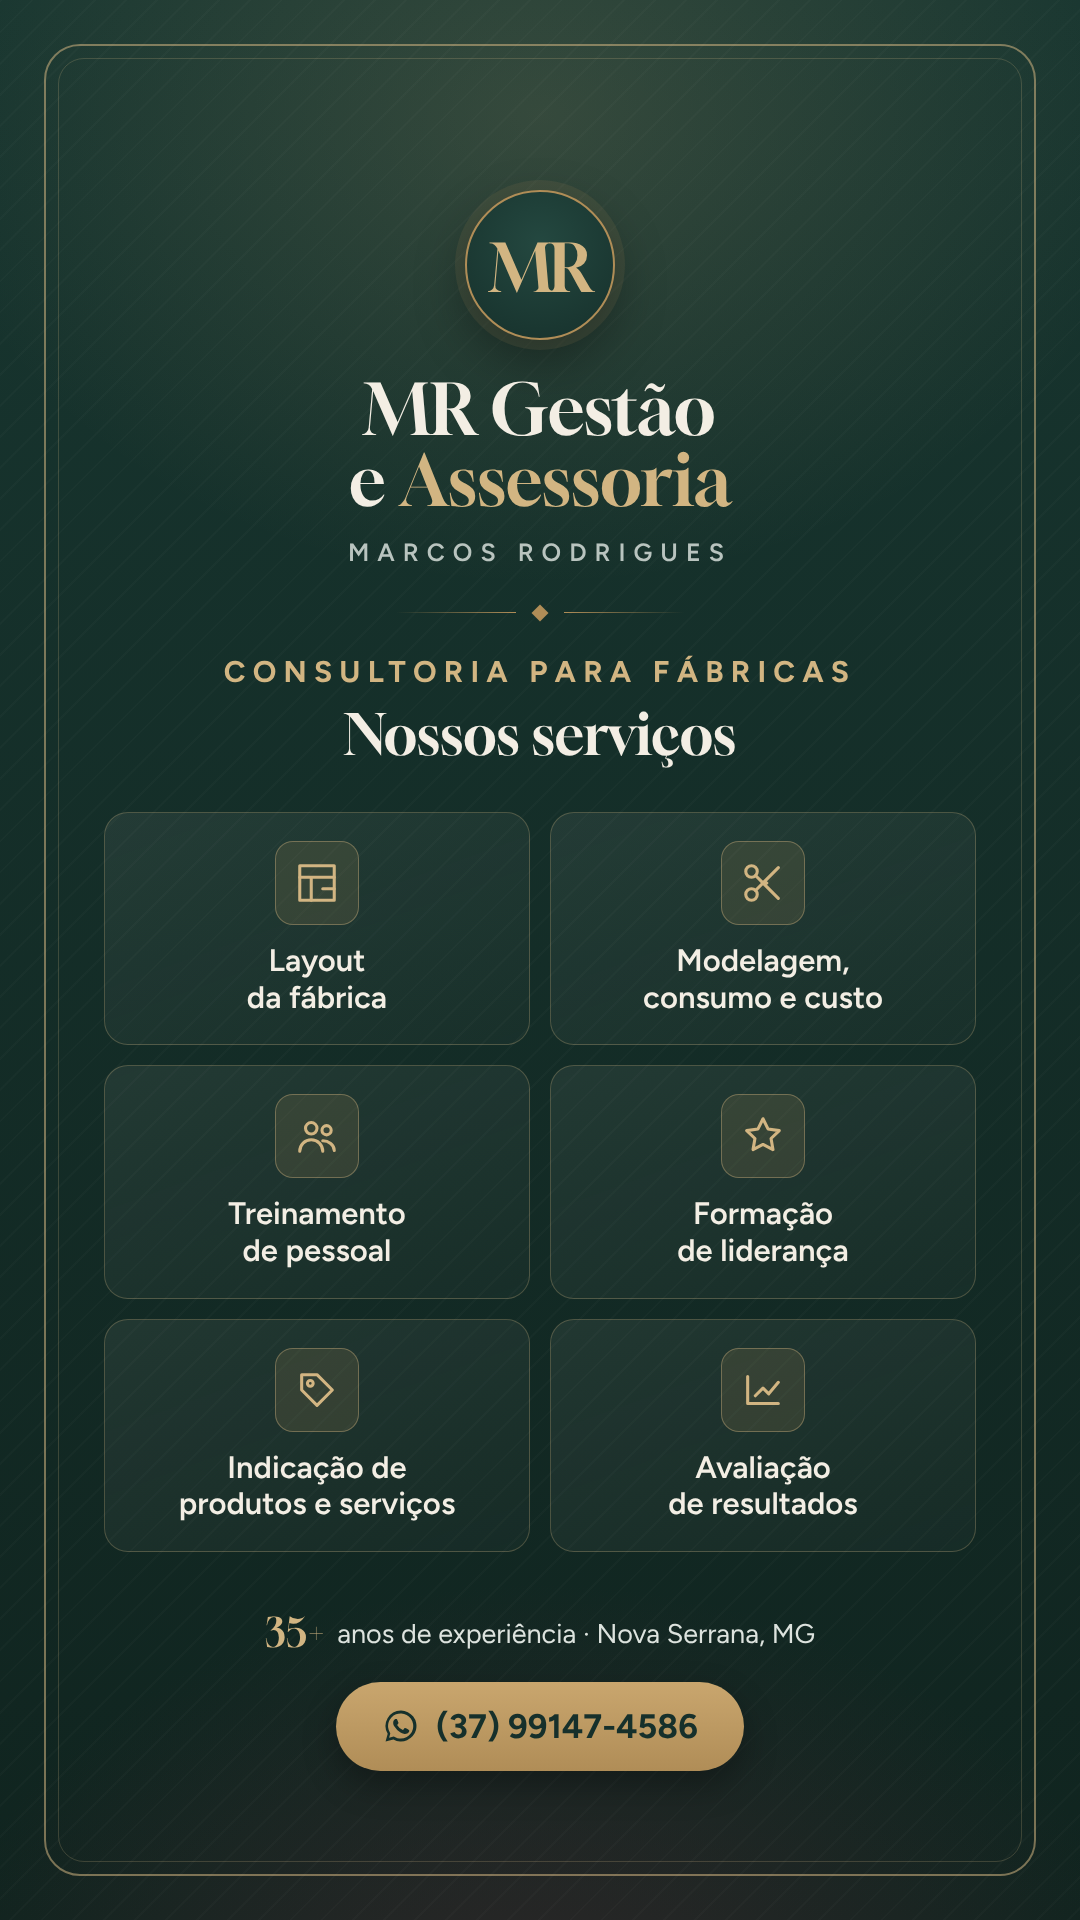
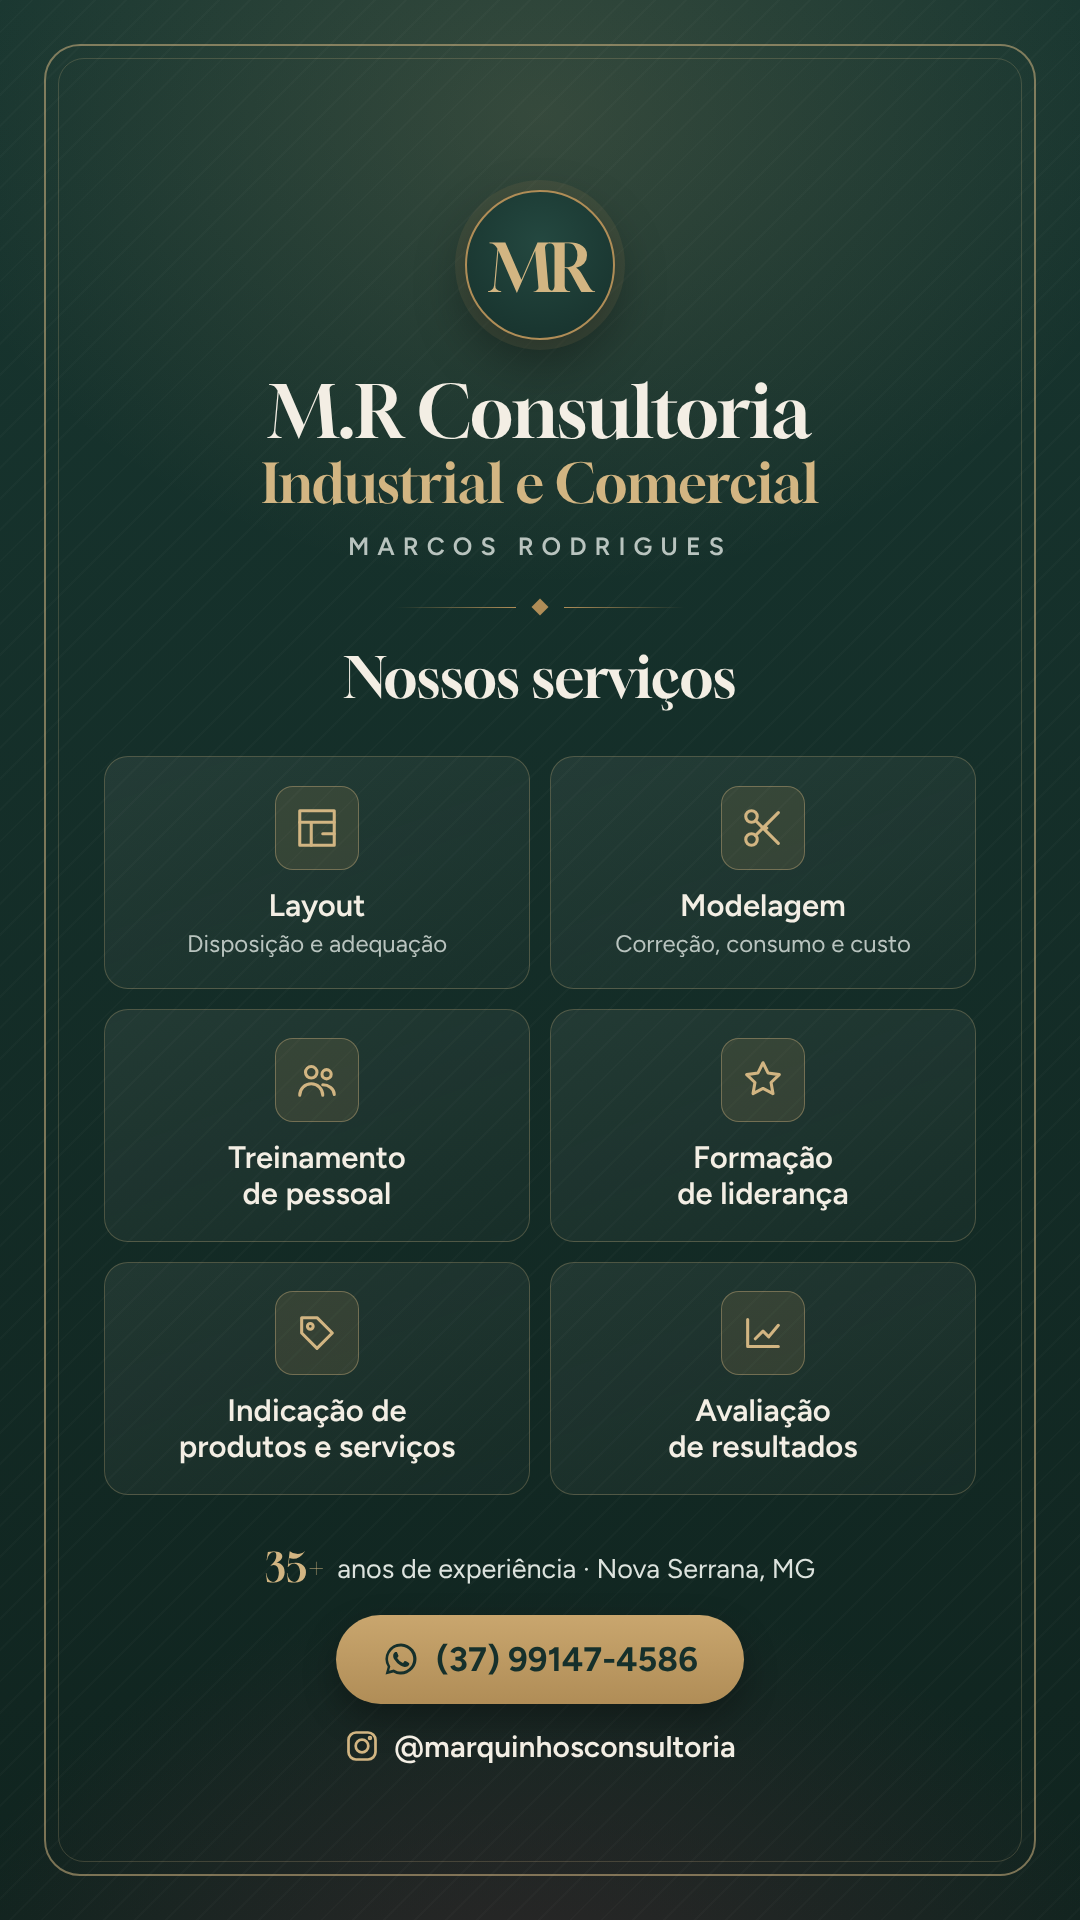
Story: M.R Consultoria Industrial e Comercial, textos do Marcos e Instagram
Claude-Session: https://claude.ai/code/session_013NtXfgkMgQ8qcPSEj4aHnj

Changed region(s): [[0.1528, 0.4062, 0.825, 0.9375], [0.2444, 0.1875, 0.7639, 0.3125], [0.2139, 0.3438, 0.7944, 0.4062]]

diff --git a/docs/story/story.html b/docs/story/story.html
@@ -17,7 +17,8 @@ body::before{content:"";position:absolute;inset:0;background:repeating-linear-gr
 
 .selo{flex:none;display:grid;place-items:center;width:150px;height:150px;border-radius:50%;border:2px solid #B08D57;background:radial-gradient(circle at 50% 35%,#244840,#16302B);box-shadow:0 0 0 10px rgba(176,141,87,.12),0 20px 50px rgba(0,0,0,.35)}
 .selo span{font-family:'Gloock',serif;font-size:66px;letter-spacing:-.05em;color:#D2B582;line-height:1;margin-top:6px}
-.empresa{margin-top:34px;font-family:'Gloock',serif;font-size:70px;line-height:1.02}
+.empresa{margin-top:34px;font-family:'Gloock',serif;font-size:72px;line-height:1.04}
+.empresa em{display:block;margin-top:6px;font-size:54px}
 .empresa em{font-style:normal;color:#D2B582}
 .nome{margin-top:20px;font-size:25px;font-weight:600;letter-spacing:.32em;text-transform:uppercase;color:#B9C4BF}
 
@@ -27,7 +28,7 @@ body::before{content:"";position:absolute;inset:0;background:repeating-linear-gr
 .orn b{width:12px;height:12px;transform:rotate(45deg);background:#B08D57}
 
 .tit{margin-top:34px;font-size:30px;font-weight:700;letter-spacing:.24em;text-transform:uppercase;color:#D2B582}
-.sub{margin-top:14px;font-family:'Gloock',serif;font-size:56px;line-height:1.08}
+.sub{margin-top:34px;font-family:'Gloock',serif;font-size:56px;line-height:1.08}
 
 .grade{display:grid;grid-template-columns:1fr 1fr;grid-auto-rows:1fr;gap:20px;width:100%;margin-top:48px}
 .serv{display:flex;flex-direction:column;align-items:center;justify-content:center;gap:18px;padding:28px 20px;border-radius:24px;text-align:center;
@@ -35,8 +36,11 @@ body::before{content:"";position:absolute;inset:0;background:repeating-linear-gr
 .ico{display:grid;place-items:center;width:84px;height:84px;border-radius:18px;background:rgba(176,141,87,.16);border:1px solid rgba(210,181,130,.4)}
 .ico svg{width:46px;height:46px;fill:none;stroke:#D2B582;stroke-width:1.6;stroke-linecap:round;stroke-linejoin:round}
 .serv b{font-size:31px;font-weight:600;line-height:1.18}
+.serv small{display:block;margin-top:6px;font-size:24px;font-weight:400;color:#B9C4BF}
+.insta{display:inline-flex;align-items:center;gap:14px;font-size:30px;font-weight:600;color:#F3EEE4}
+.insta svg{width:36px;height:36px;fill:none;stroke:#D2B582;stroke-width:1.8;stroke-linecap:round;stroke-linejoin:round}
 
-.pe{margin-top:56px;display:flex;flex-direction:column;align-items:center;gap:26px}
+.pe{margin-top:48px;display:flex;flex-direction:column;align-items:center;gap:24px}
 .exp{font-size:27px;color:#DDE3DE}
 .exp b{font-family:'Gloock',serif;font-weight:400;font-size:40px;color:#D2B582;margin-right:6px;vertical-align:-4px}
 .pill{display:inline-flex;align-items:center;gap:16px;padding:24px 46px;border-radius:999px;background:linear-gradient(180deg,#C9A66E,#B08D57);color:#16302B;font-size:34px;font-weight:700;box-shadow:0 14px 34px rgba(0,0,0,.3)}
@@ -45,17 +49,16 @@ body::before{content:"";position:absolute;inset:0;background:repeating-linear-gr
 <div class="moldura" aria-hidden="true"></div>
 <div class="in">
   <div class="selo"><span>MR</span></div>
-  <div class="empresa">MR Gestão<br>e <em>Assessoria</em></div>
+  <div class="empresa">M.R Consultoria<br><em>Industrial e Comercial</em></div>
   <div class="nome">Marcos Rodrigues</div>
 
   <div class="orn" aria-hidden="true"><i></i><b></b><i></i></div>
 
-  <div class="tit">Consultoria para fábricas</div>
   <div class="sub">Nossos serviços</div>
 
   <div class="grade">
-    <div class="serv"><span class="ico"><svg viewBox="0 0 24 24"><path d="M3 3h18v18H3z"/><path d="M3 9h18M9 9v12M15 15h6"/></svg></span><b>Layout<br>da fábrica</b></div>
-    <div class="serv"><span class="ico"><svg viewBox="0 0 24 24"><circle cx="6" cy="6" r="3"/><circle cx="6" cy="18" r="3"/><path d="M8.1 8.1 20 20M8.1 15.9 20 4M14 12h.01"/></svg></span><b>Modelagem,<br>consumo e custo</b></div>
+    <div class="serv"><span class="ico"><svg viewBox="0 0 24 24"><path d="M3 3h18v18H3z"/><path d="M3 9h18M9 9v12M15 15h6"/></svg></span><b>Layout<small>Disposição e adequação</small></b></div>
+    <div class="serv"><span class="ico"><svg viewBox="0 0 24 24"><circle cx="6" cy="6" r="3"/><circle cx="6" cy="18" r="3"/><path d="M8.1 8.1 20 20M8.1 15.9 20 4M14 12h.01"/></svg></span><b>Modelagem<small>Correção, consumo e custo</small></b></div>
     <div class="serv"><span class="ico"><svg viewBox="0 0 24 24"><circle cx="9" cy="8" r="3"/><circle cx="17" cy="9" r="2.4"/><path d="M3 20c0-3.5 2.7-6 6-6s6 2.5 6 6M15 14.5c3 0 6 2 6 5"/></svg></span><b>Treinamento<br>de pessoal</b></div>
     <div class="serv"><span class="ico"><svg viewBox="0 0 24 24"><path d="m12 3 2.6 5.3 5.9.9-4.3 4.1 1 5.8L12 16.4 6.8 19.1l1-5.8L3.5 9.2l5.9-.9z"/></svg></span><b>Formação<br>de liderança</b></div>
     <div class="serv"><span class="ico"><svg viewBox="0 0 24 24"><path d="M20 12 12 20 4 12V4h8z"/><circle cx="8.5" cy="8.5" r="1.5"/></svg></span><b>Indicação de<br>produtos e serviços</b></div>
@@ -65,6 +68,7 @@ body::before{content:"";position:absolute;inset:0;background:repeating-linear-gr
   <div class="pe">
     <div class="exp"><b>35+</b> anos de experiência · Nova Serrana, MG</div>
     <span class="pill"><svg viewBox="0 0 32 32" aria-hidden="true"><path fill="currentColor" d="M16 3a13 13 0 0 0-11.2 19.6L3 29l6.6-1.7A13 13 0 1 0 16 3zm0 23.6c-2 0-4-.6-5.7-1.6l-.4-.2-3.9 1 1-3.8-.3-.4A10.6 10.6 0 1 1 16 26.6zm5.8-7.9c-.3-.2-1.9-.9-2.2-1-.3-.1-.5-.2-.7.2l-1 1.2c-.2.2-.4.2-.7.1a8.7 8.7 0 0 1-4.3-3.8c-.3-.6.3-.5.9-1.7.1-.2 0-.4 0-.6l-1-2.4c-.3-.6-.5-.5-.7-.5h-.6c-.2 0-.6.1-.9.4-.3.3-1.2 1.1-1.2 2.8s1.2 3.2 1.4 3.4c.2.2 2.4 3.6 5.7 5 2.1.9 2.9 1 4 .8.6-.1 1.9-.8 2.2-1.5.3-.7.3-1.4.2-1.5-.1-.2-.3-.3-.6-.4z"/></svg>(37) 99147-4586</span>
+    <span class="insta"><svg viewBox="0 0 24 24" aria-hidden="true"><rect x="3" y="3" width="18" height="18" rx="5"/><circle cx="12" cy="12" r="4.2"/><circle cx="17.3" cy="6.7" r=".6" fill="#D2B582"/></svg>@marquinhosconsultoria</span>
   </div>
 </div>
 </body></html>
